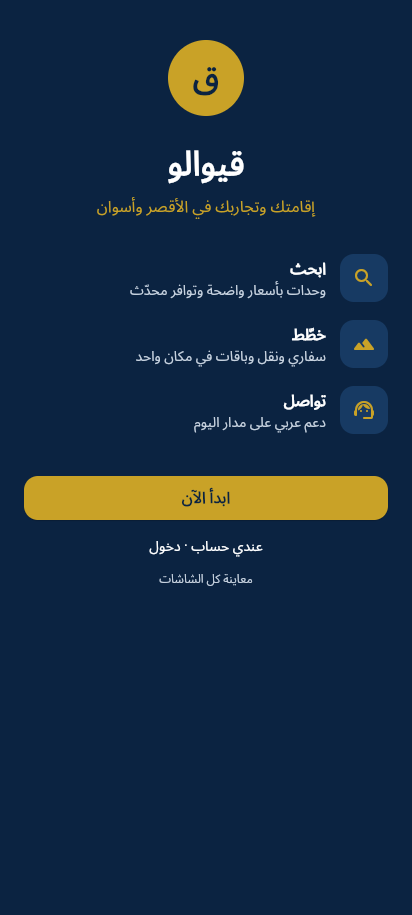
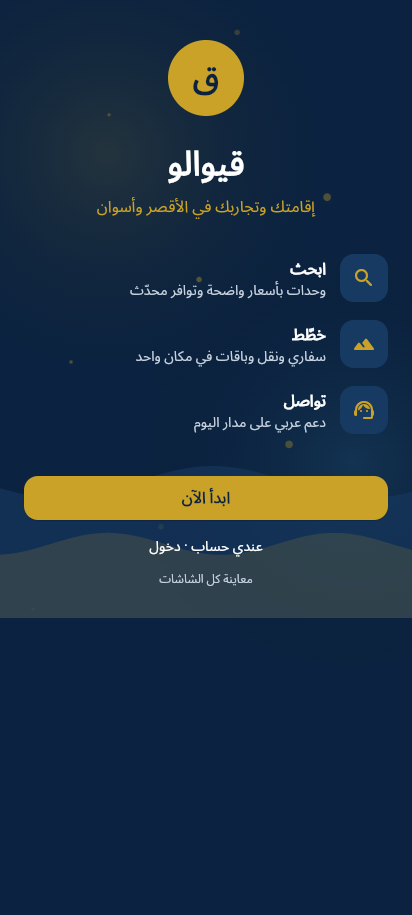
feat(mobile): animate welcome screen backdrop

Changed region(s): [[0.0, 0.5814, 1.0, 0.6732]]

diff --git a/lib/screens/auth.dart b/lib/screens/auth.dart
@@ -1,65 +1,104 @@
+import 'dart:math' as math;
+
 import 'package:flutter/material.dart';
 import '../theme.dart';
 import '../widgets.dart';
 
-class OnboardingScreen extends StatelessWidget {
+class OnboardingScreen extends StatefulWidget {
   const OnboardingScreen({super.key});
+
+  @override
+  State<OnboardingScreen> createState() => _OnboardingScreenState();
+}
+
+class _OnboardingScreenState extends State<OnboardingScreen>
+    with SingleTickerProviderStateMixin {
+  late final AnimationController _controller;
+
+  @override
+  void initState() {
+    super.initState();
+    // حركة هادية وسلسة عشان التطبيق يبان حيّ من غير ما يبعد عن راحة البصر.
+    _controller = AnimationController(
+      vsync: this,
+      duration: const Duration(seconds: 14),
+    )..repeat();
+  }
+
+  @override
+  void dispose() {
+    _controller.dispose();
+    super.dispose();
+  }
 
   @override
   Widget build(BuildContext context) {
     return Scaffold(
       backgroundColor: navy,
-      body: SafeArea(
-        child: SingleChildScrollView(
-          padding: const EdgeInsets.fromLTRB(24, 40, 24, 24),
-          child: Column(
-            crossAxisAlignment: CrossAxisAlignment.stretch,
-            children: [
-              CircleAvatar(
-                backgroundColor: gold,
-                radius: 38,
-                child: const Text(
-                  'ق',
-                  style: TextStyle(color: navy, fontSize: 34, fontWeight: FontWeight.bold),
-                ),
+      body: Stack(
+        children: [
+          Positioned.fill(
+            child: AnimatedBuilder(
+              animation: _controller,
+              builder: (context, _) => CustomPaint(
+                painter: _WelcomeBackdropPainter(_controller.value),
+                child: const SizedBox.expand(),
               ),
-              const SizedBox(height: 24),
-              const Text(
-                'قيوالو',
-                textAlign: TextAlign.center,
-                style: TextStyle(color: Colors.white, fontSize: 34, fontWeight: FontWeight.bold),
-              ),
-              const SizedBox(height: 6),
-              const Text(
-                'إقامتك وتجاربك في الأقصر وأسوان',
-                textAlign: TextAlign.center,
-                style: TextStyle(color: gold, fontSize: 16),
-              ),
-              const SizedBox(height: 36),
-              _feature(Icons.search_rounded, 'ابحث', 'وحدات بأسعار واضحة وتوافر محدّث'),
-              _feature(Icons.terrain_rounded, 'خطّط', 'سفاري ونقل وباقات في مكان واحد'),
-              _feature(Icons.support_agent_rounded, 'تواصل', 'دعم عربي على مدار اليوم'),
-              const SizedBox(height: 24),
-              ElevatedButton(
-                style: ElevatedButton.styleFrom(backgroundColor: gold, foregroundColor: navy),
-                onPressed: () => Navigator.pushNamed(context, '/signup'),
-                child: const Text('ابدأ الآن'),
-              ),
-              const SizedBox(height: 10),
-              TextButton(
-                onPressed: () => Navigator.pushNamed(context, '/login'),
-                child: const Text('عندي حساب · دخول', style: TextStyle(color: Colors.white)),
-              ),
-              TextButton(
-                onPressed: () => Navigator.pushNamed(context, '/design'),
-                child: const Text(
-                  'معاينة كل الشاشات',
-                  style: TextStyle(color: Color(0xFFC7D2DF), fontSize: 12),
-                ),
-              ),
-            ],
+            ),
           ),
-        ),
+          SafeArea(
+            child: SingleChildScrollView(
+              padding: const EdgeInsets.fromLTRB(24, 40, 24, 24),
+              child: Column(
+                crossAxisAlignment: CrossAxisAlignment.stretch,
+                children: [
+                  CircleAvatar(
+                    backgroundColor: gold,
+                    radius: 38,
+                    child: const Text(
+                      'ق',
+                      style: TextStyle(color: navy, fontSize: 34, fontWeight: FontWeight.bold),
+                    ),
+                  ),
+                  const SizedBox(height: 24),
+                  const Text(
+                    'قيوالو',
+                    textAlign: TextAlign.center,
+                    style: TextStyle(color: Colors.white, fontSize: 34, fontWeight: FontWeight.bold),
+                  ),
+                  const SizedBox(height: 6),
+                  const Text(
+                    'إقامتك وتجاربك في الأقصر وأسوان',
+                    textAlign: TextAlign.center,
+                    style: TextStyle(color: gold, fontSize: 16),
+                  ),
+                  const SizedBox(height: 36),
+                  _feature(Icons.search_rounded, 'ابحث', 'وحدات بأسعار واضحة وتوافر محدّث'),
+                  _feature(Icons.terrain_rounded, 'خطّط', 'سفاري ونقل وباقات في مكان واحد'),
+                  _feature(Icons.support_agent_rounded, 'تواصل', 'دعم عربي على مدار اليوم'),
+                  const SizedBox(height: 24),
+                  ElevatedButton(
+                    style: ElevatedButton.styleFrom(backgroundColor: gold, foregroundColor: navy),
+                    onPressed: () => Navigator.pushNamed(context, '/signup'),
+                    child: const Text('ابدأ الآن'),
+                  ),
+                  const SizedBox(height: 10),
+                  TextButton(
+                    onPressed: () => Navigator.pushNamed(context, '/login'),
+                    child: const Text('عندي حساب · دخول', style: TextStyle(color: Colors.white)),
+                  ),
+                  TextButton(
+                    onPressed: () => Navigator.pushNamed(context, '/design'),
+                    child: const Text(
+                      'معاينة كل الشاشات',
+                      style: TextStyle(color: Color(0xFFC7D2DF), fontSize: 12),
+                    ),
+                  ),
+                ],
+              ),
+            ),
+          ),
+        ],
       ),
     );
   }
@@ -88,6 +127,110 @@ class OnboardingScreen extends StatelessWidget {
       ),
     );
   }
+}
+
+/// خلفية متحركة: توهّج خفيف + جزيئات ذهبية صاعدة + موجتان بيتحركوا ببطء،
+/// إشارة بصرية إن التطبيق شغّال وحّي من غير صوت أو استهلاك واضح للبطارية.
+class _WelcomeBackdropPainter extends CustomPainter {
+  const _WelcomeBackdropPainter(this.value);
+
+  final double value;
+
+  @override
+  void paint(Canvas canvas, Size size) {
+    final phase = value * math.pi * 2;
+
+    _glow(
+      canvas,
+      center: Offset(
+        size.width * (0.24 + 0.05 * math.sin(phase)),
+        size.height * (0.22 + 0.03 * math.cos(phase)),
+      ),
+      radius: size.width * 0.62,
+      color: gold.withValues(alpha: 0.13),
+    );
+    _glow(
+      canvas,
+      center: Offset(
+        size.width * (0.82 + 0.04 * math.cos(phase * 0.8)),
+        size.height * (0.74 + 0.04 * math.sin(phase * 0.6)),
+      ),
+      radius: size.width * 0.55,
+      color: const Color(0xFF2E6C8E).withValues(alpha: 0.22),
+    );
+
+    for (var i = 0; i < 9; i++) {
+      final progress = (value + i / 9) % 1;
+      final x = size.width * (0.08 + 0.84 * ((i * 37) % 100) / 100);
+      final y = size.height * (1.06 - progress * 1.2);
+      final radius = 1.6 + (i % 3) * 1.1;
+      final alpha = 0.08 + 0.30 * math.sin(progress * math.pi);
+      canvas.drawCircle(
+        Offset(x, y),
+        radius,
+        Paint()..color = gold.withValues(alpha: alpha),
+      );
+    }
+
+    _wave(
+      canvas,
+      size,
+      phase: phase,
+      baseY: size.height * 0.78,
+      amplitude: 16,
+      waveLength: size.width * 0.75,
+      color: navyLight.withValues(alpha: 0.55),
+    );
+    _wave(
+      canvas,
+      size,
+      phase: phase * 1.35 + 1.2,
+      baseY: size.height * 0.88,
+      amplitude: 11,
+      waveLength: size.width * 0.55,
+      color: gold.withValues(alpha: 0.16),
+    );
+  }
+
+  void _glow(
+    Canvas canvas, {
+    required Offset center,
+    required double radius,
+    required Color color,
+  }) {
+    canvas.drawCircle(
+      center,
+      radius,
+      Paint()
+        ..shader = RadialGradient(
+          colors: [color, Colors.transparent],
+        ).createShader(Rect.fromCircle(center: center, radius: radius)),
+    );
+  }
+
+  void _wave(
+    Canvas canvas,
+    Size size, {
+    required double phase,
+    required double baseY,
+    required double amplitude,
+    required double waveLength,
+    required Color color,
+  }) {
+    final path = Path()..moveTo(0, size.height);
+    for (double x = 0; x <= size.width + 6; x += 6) {
+      final y = baseY + math.sin((x / waveLength) * math.pi * 2 + phase) * amplitude;
+      path.lineTo(x, y);
+    }
+    path
+      ..lineTo(size.width, size.height)
+      ..close();
+    canvas.drawPath(path, Paint()..color = color);
+  }
+
+  @override
+  bool shouldRepaint(covariant _WelcomeBackdropPainter oldDelegate) =>
+      oldDelegate.value != value;
 }
 
 class LoginScreen extends StatelessWidget {

diff --git a/test/widget_test.dart b/test/widget_test.dart
@@ -69,6 +69,10 @@ void main() {
     expect(find.text('عندي حساب · دخول'), findsOneWidget);
     expect(find.text('معاينة كل الشاشات'), findsOneWidget);
     expect(find.text('كل الشاشات · ٢٤'), findsNothing);
+
+    // الخلفية المتحركة لازم تشتغل لعدة إطارات من غير ما ترفع استثناء.
+    await tester.pump(const Duration(seconds: 2));
+    expect(find.text('قيوالو'), findsOneWidget);
   });
 
   testWidgets('فهرس المراجعة لسه بيعرض الشاشات الأربعة والعشرين', (tester) async {

diff --git a/docs/DESIGN-REVIEW.md b/docs/DESIGN-REVIEW.md
@@ -15,7 +15,7 @@
 - اسم التطبيق الظاهر في القائمة: **قيوالو**، بأيقونة كحلي/ذهبي مولّدة من `tools/make_icons.py`.
 - معرّف الحزمة: `com.qiwalo.app` (مختلف عن APK القديم، فبيتفّوا جنب بعض).
 - إرشادات التحميل والتثبيت: `docs/INSTALL-ANDROID.md`.
-- أول شاشة عند الفتح على أندرويد هي **شاشة الترحيب**؛ ومن رابط «معاينة كل الشاشات» تقدر تفتح فهرس المراجعة وأي شاشة منه. بناء الويب (أداة اللقطات فقط) يبدأ بفهرس المراجعة.
+- أول شاشة عند الفتح على أندرويد هي **شاشة الترحيب**، بخلفية متحركة خفيفة: توهّج ذهبي/أزرق، جزيئات صاعدة، وموجتان بيتحركوا ببطء (دوره ١٤ ثانية) عشان التطبيق يبان حيّ. ومن رابط «معاينة كل الشاشات» تقدر تفتح فهرس المراجعة وأي شاشة منه. بناء الويب (أداة اللقطات فقط) يبدأ بفهرس المراجعة.
 - لو حابب تبنيه بنفسك: `flutter build apk --debug` (تم ضبط `flutter config --jdk-dir` على JDK 23 لأن الـ JBR المثبّت 25 غير مدعوم من Gradle).
 
 ## تفاصيل الوحدة (أول بند تنفيذ فعلي)
@@ -83,7 +83,7 @@
 - `flutter test` ✅ ١٢ اختباراً (٦ لمعاينة التصميم والترحيب وتفاصيل الوحدة وشاشات المالك/السائق، ٣ لحجز Mock: التسعير من BFF وظهور رسالة الرفض والبحث برقم المرجع، و٣ لدخول الأدوار وقراءة بيانات المالك/السائق بالتوكن).
 - `flutter build web --release --dart-define=USE_MOCK=true` ✅ (للقطات المراجعة فقط؛ ٢٧ لقطة Pixel 7).
 - `flutter build apk --debug` ✅ وتم فحص الـ APK: يحتوي `libflutter.so` و`flutter_assets` (عكس APK القديم).
-- `aapt dump badging` ✅: `package='com.qiwalo.app'` و`application-label='قيوالو'` و`versionName='1.2.1'` / `versionCode='4'` وأيقونة adaptive من `@mipmap/ic_launcher`.
+- `aapt dump badging` ✅: `package='com.qiwalo.app'` و`application-label='قيوالو'` و`versionName='1.2.2'` / `versionCode='5'` وأيقونة adaptive من `@mipmap/ic_launcher`.
 - تثبيت فعلي على جهاز `SM_A075F` عبر `adb install -r` ✅، والتطبيق افتح من غير كراش خاص به.
 
 ## متعمّد تأجيله

diff --git a/docs/RELEASE-WORKFLOW.md b/docs/RELEASE-WORKFLOW.md
@@ -27,5 +27,6 @@
 | `mobile-v1.1.0` | إضافة ٨ شاشات مالك/سائق (معاينة محلية)، فهرس ٢٤ شاشة، و٢٧ لقطة Pixel 7. |
 | `mobile-v1.2.0` | ربط شاشات المالك والسائق بـ BFF الأدوار: دخول JWT، تخزين آمن للتوكن، بيانات حقيقية مع حالات تحميل/فراغ/خطأ وإعادة محاولة، حفظ وحدة المالك، إيقاف/استئناف مركبة السائق، و١١ اختباراً. |
 | `mobile-v1.2.1` | شاشة الترحيب بقت أول شاشة على أندرويد، مع رابط «معاينة كل الشاشات» للوصول لفهرس المراجعة، وتصحيح نص قديم كان بيقول إن أدوار المالك/السائق معاينة محلية. |
+| `mobile-v1.2.2` | خلفية متحركة لشاشة الترحيب: توهّج ذهبي/أزرق، جزيئات صاعدة، وموجتان متحركتان؛ من غير حزم إضافية أو تأثير على البيانات. |
 
 > التوقيع Release وإشعارات Push لسه مؤجّلة لطلب صريح. شاشات المالك/السائق مرتبطة بـ BFF الأدوار، لكن قبول/رفض طلبات الحجز لسه للقراءة فقط لأن الحجوزات بتتأكد تلقائياً. الـ APK الحالي debug وموقّع بالتطوير؛ يمكن تثبيته مباشرة على أندرويد ويُوزّع عبر رابط الـ Release.

diff --git a/README.md b/README.md
@@ -59,6 +59,6 @@ Copy-Item build\app\outputs\flutter-apk\app-debug.apk releases\qiwalo.apk -Force
 
 ## الإصدارات
 
-كل تحديث بياخد GitHub Release لوحده في هذا المستودع، مع APK ولقطات Pixel 7. أحدث إصدار: `mobile-v1.2.1`.
+كل تحديث بياخد GitHub Release لوحده في هذا المستودع، مع APK ولقطات Pixel 7. أحدث إصدار: `mobile-v1.2.2`.
 
-أول ما يفتح التطبيق على أندرويد تظهر **شاشة الترحيب**، ومنها رابط «معاينة كل الشاشات» لفهرس المراجعة. بناء الويب بيبدأ بفهرس المراجعة لأنه أداة توليد اللقطات فقط.
+أول ما يفتح التطبيق على أندرويد تظهر **شاشة الترحيب** بخلفية متحركة (توهّج ذهبي، جزيئات صاعدة، وموجتان بيتحركوا ببطء)؛ ومنها رابط «معاينة كل الشاشات» لفهرس المراجعة. بناء الويب بيبدأ بفهرس المراجعة لأنه أداة توليد اللقطات فقط.

diff --git a/docs/INSTALL-ANDROID.md b/docs/INSTALL-ANDROID.md
@@ -20,7 +20,7 @@
    ```powershell
    C:\Users\musta\AppData\Local\Android\Sdk\platform-tools\adb.exe install -r "K:\qiwalo\qiwalo-flutter\releases\qiwalo.apk"
    ```
-6. افتح «قيوالو» من قائمة التطبيقات. أول شاشة هي **الترحيب**؛ اضغط «ابدأ الآن» أو «عندي حساب · دخول»، أو «معاينة كل الشاشات» لو عايز فهرس المراجعة.
+6. افتح «قيوالو» من قائمة التطبيقات. أول شاشة هي **الترحيب** بخلفية متحركة (توهّج وجزيئات وموجات بتتحرك بهدوء)؛ اضغط «ابدأ الآن» أو «عندي حساب · دخول»، أو «معاينة كل الشاشات» لو عايز فهرس المراجعة.
 
 ## الطريقة ٢ — من غير كابل
 
